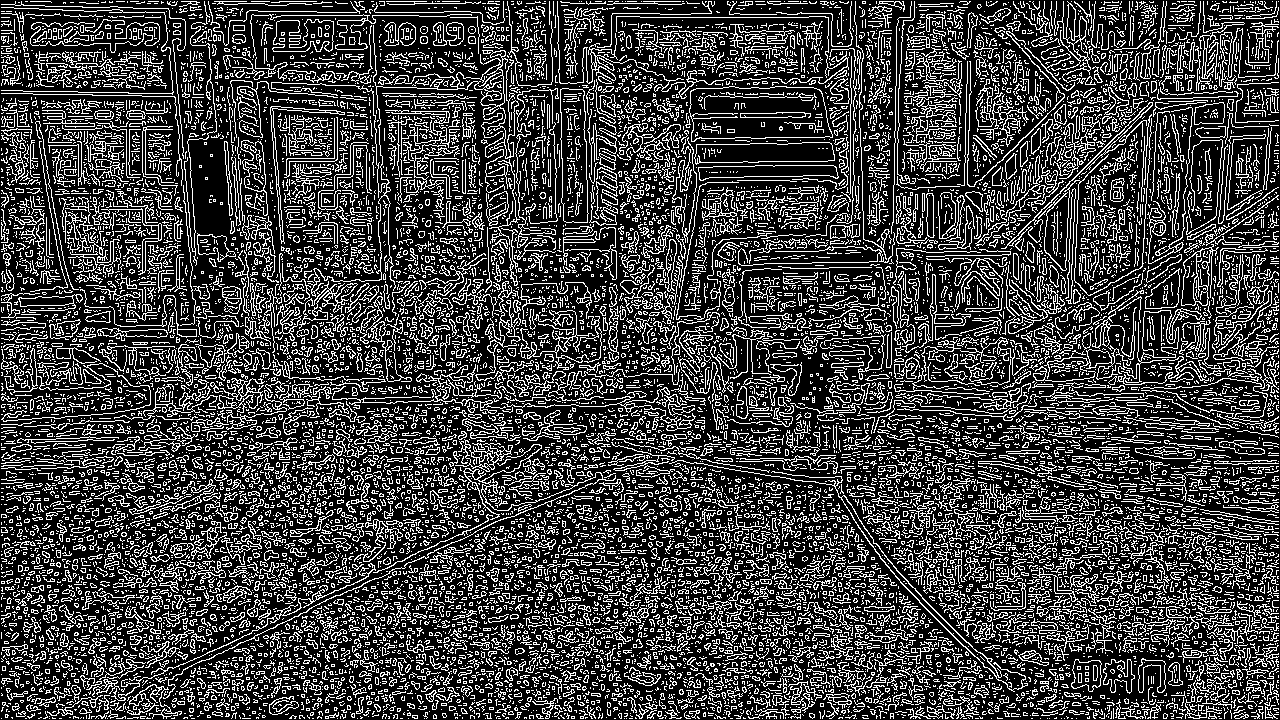
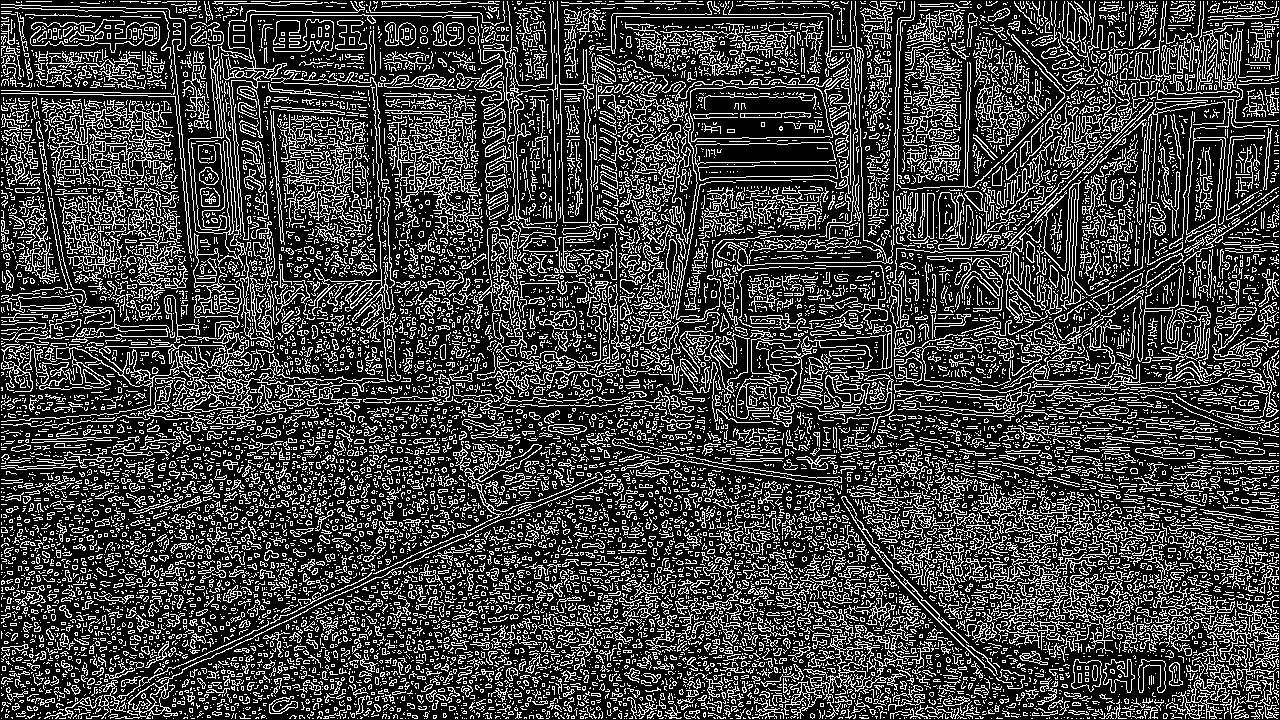
[FIX] 修正缺失的oklab 而不是普通lab

diff --git a/main.py b/main.py
@@ -9,6 +9,7 @@ from skimage import color, io
 import pathlib
 import os
 import puremagic
+import colour
 
 
 
@@ -81,7 +82,7 @@ def process_image(
     original_image_name = pathlib.Path(original_image_path).stem  # 获取文件名（不带扩展名）
     # =========================== Read the original image ===========================
     image = io.imread(original_image_path)
-    image_lab = color.rgb2lab(image)  # 转换为 Lab 颜色空间
+    # image_lab = color.rgb2lab(image)  # 转换为 Lab 颜色空间
 
     # # 计算颜色平均值
     # image_lab_mean = numpy.mean(image_lab, axis=(0, 1))
@@ -89,8 +90,13 @@ def process_image(
     # image_lab_mean = image_lab_mean / 255.0  # 将平均值归一化到 [0, 1] 范围
 
     # =========================== New Algorithm: Central-Peripheral Contrast Convolution ===========================
+    oklab_image: numpy.ndarray = colour.convert(image, "Output-Referred RGB", "Oklab")
+    oklab_image = skimage.color.lab2lch(oklab_image)  # 转换为 LCH 颜色空间
+    # L: [0, 1]
+    # C: [0, 1]
+    # H: [0, 2pi]
     convolution_result = central_peripheral_contrast_convolution_local_normalized(
-        pixel_matrix=image_lab,
+        pixel_matrix=oklab_image,
         kernel_size=kernel_size,
     )
 
